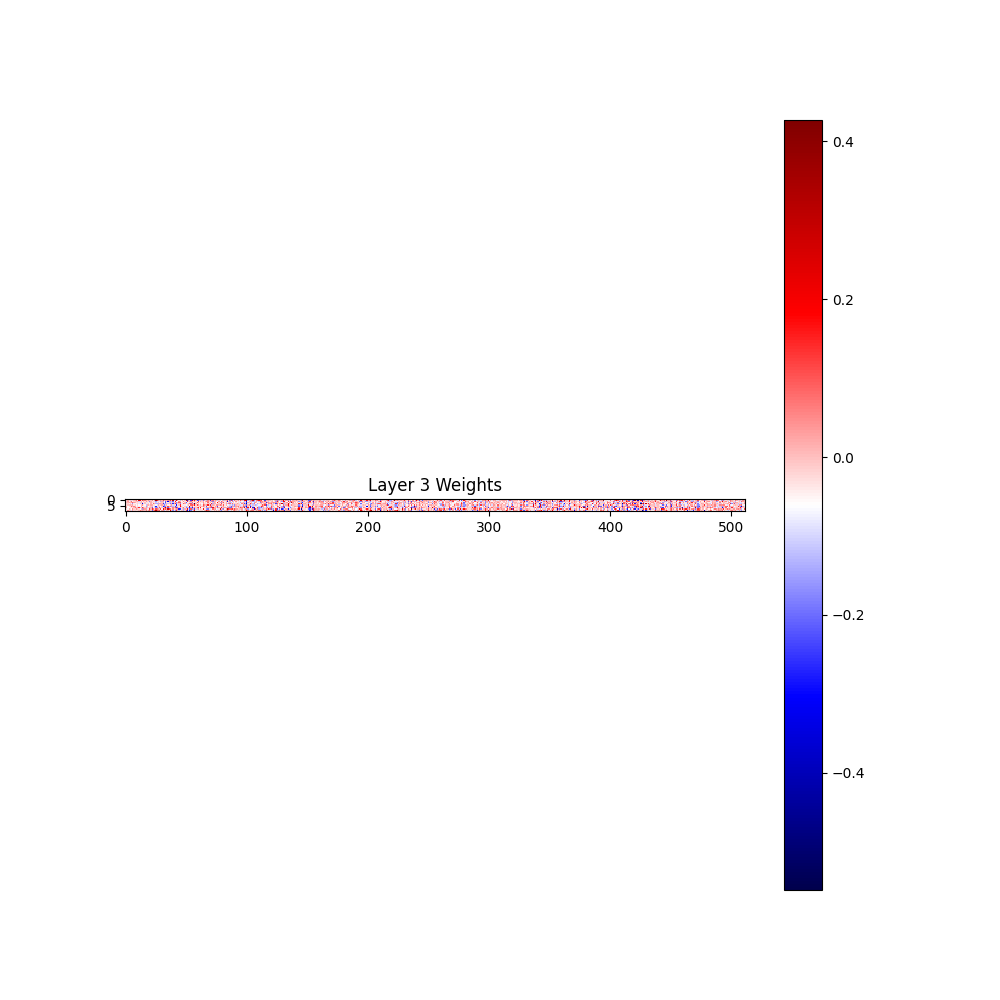
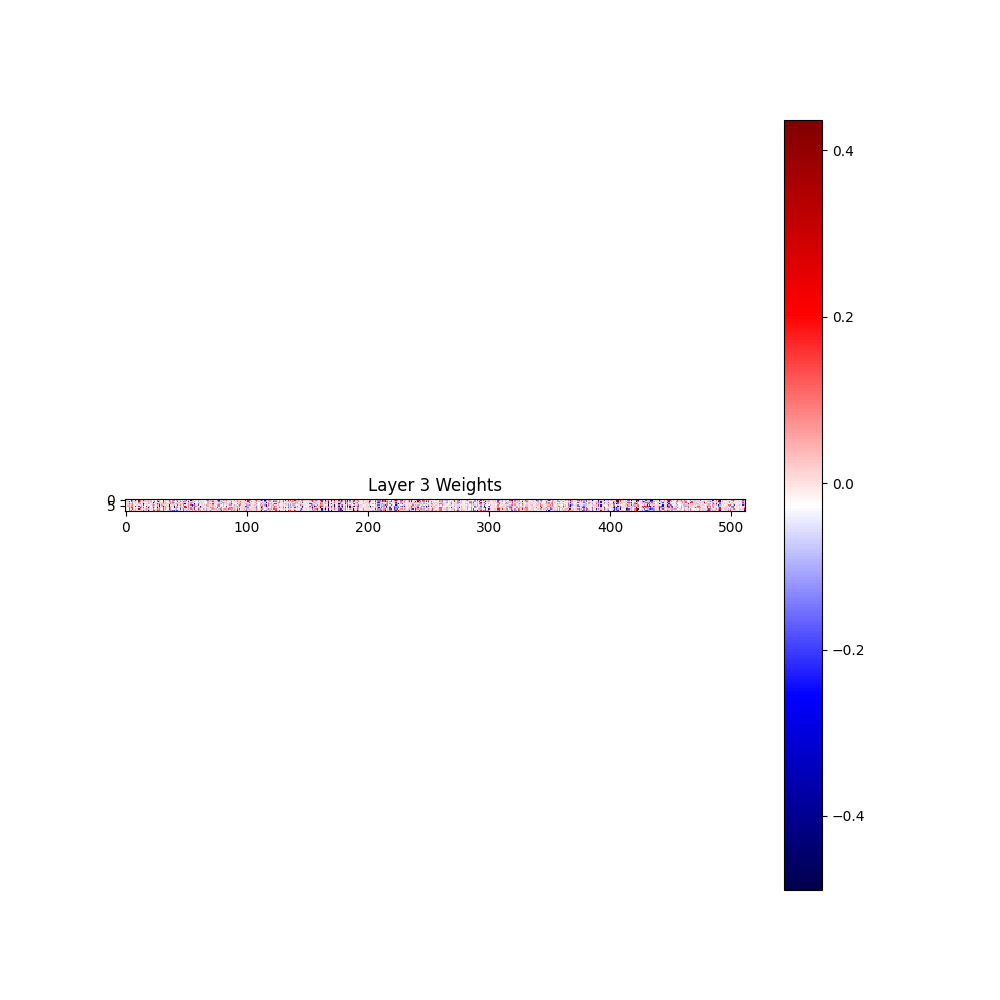
cifar

diff --git a/models/sparse_mlp.py b/models/sparse_mlp.py
@@ -1,14 +1,17 @@
+import torch
 import torch.nn as nn
 import math
 from torchinfo import summary
 
 class MLP(nn.Module):
-    def __init__(self, pruning_percent, start_itr):
+    def __init__(self, pruning_percent, start_itr, group_size = 32, lasso_weight=1e-4):
         super(MLP, self).__init__()
         self.pruning_percent = pruning_percent
         self.start_itr = start_itr
         self.current_itr = 0
         self.theta = 0.0
+        self.group_size = group_size
+        self.lasso_weight = lasso_weight
 
         self.flatten = nn.Flatten()
         self.fc1 = nn.Linear(32 * 32 * 3, 1024)
@@ -73,3 +76,28 @@ class MLP(nn.Module):
 
     def summary(self):
         summary(self, input_size=(1, 28, 28))
+
+    def compute_group_lasso(self):
+        """
+        Compute the group lasso regularization loss for fc2 weights.
+        Group lasso is computed by summing the norms of groups of weights.
+        """
+        weight = self.fc2.weight
+        rows, cols = weight.shape
+        group_lasso_loss = 0.0
+
+        # Group weights in blocks along the columns
+        num_groups = cols // self.group_size
+        for g in range(num_groups):
+            group_weights = weight[:, g * self.group_size : (g + 1) * self.group_size]
+            group_lasso_loss += torch.norm(group_weights, dim=1).sum()
+
+        return self.lasso_weight * group_lasso_loss
+
+    def compute_loss(self, criterion, outputs, targets, lasso=True):
+        base_loss = criterion(outputs, targets)
+        if not lasso:
+            return base_loss
+
+        group_lasso_loss = self.compute_group_lasso()
+        return base_loss + group_lasso_loss

diff --git a/train_theta.py b/train_theta.py
@@ -64,7 +64,7 @@ for epoch in range(num_epochs):
         labels = labels.to(device)
 
         outputs = model(images)
-        loss = criterion(outputs, labels)
+        loss = model.compute_loss(criterion, outputs, labels)
 
         optimizer.zero_grad()
         loss.backward()
